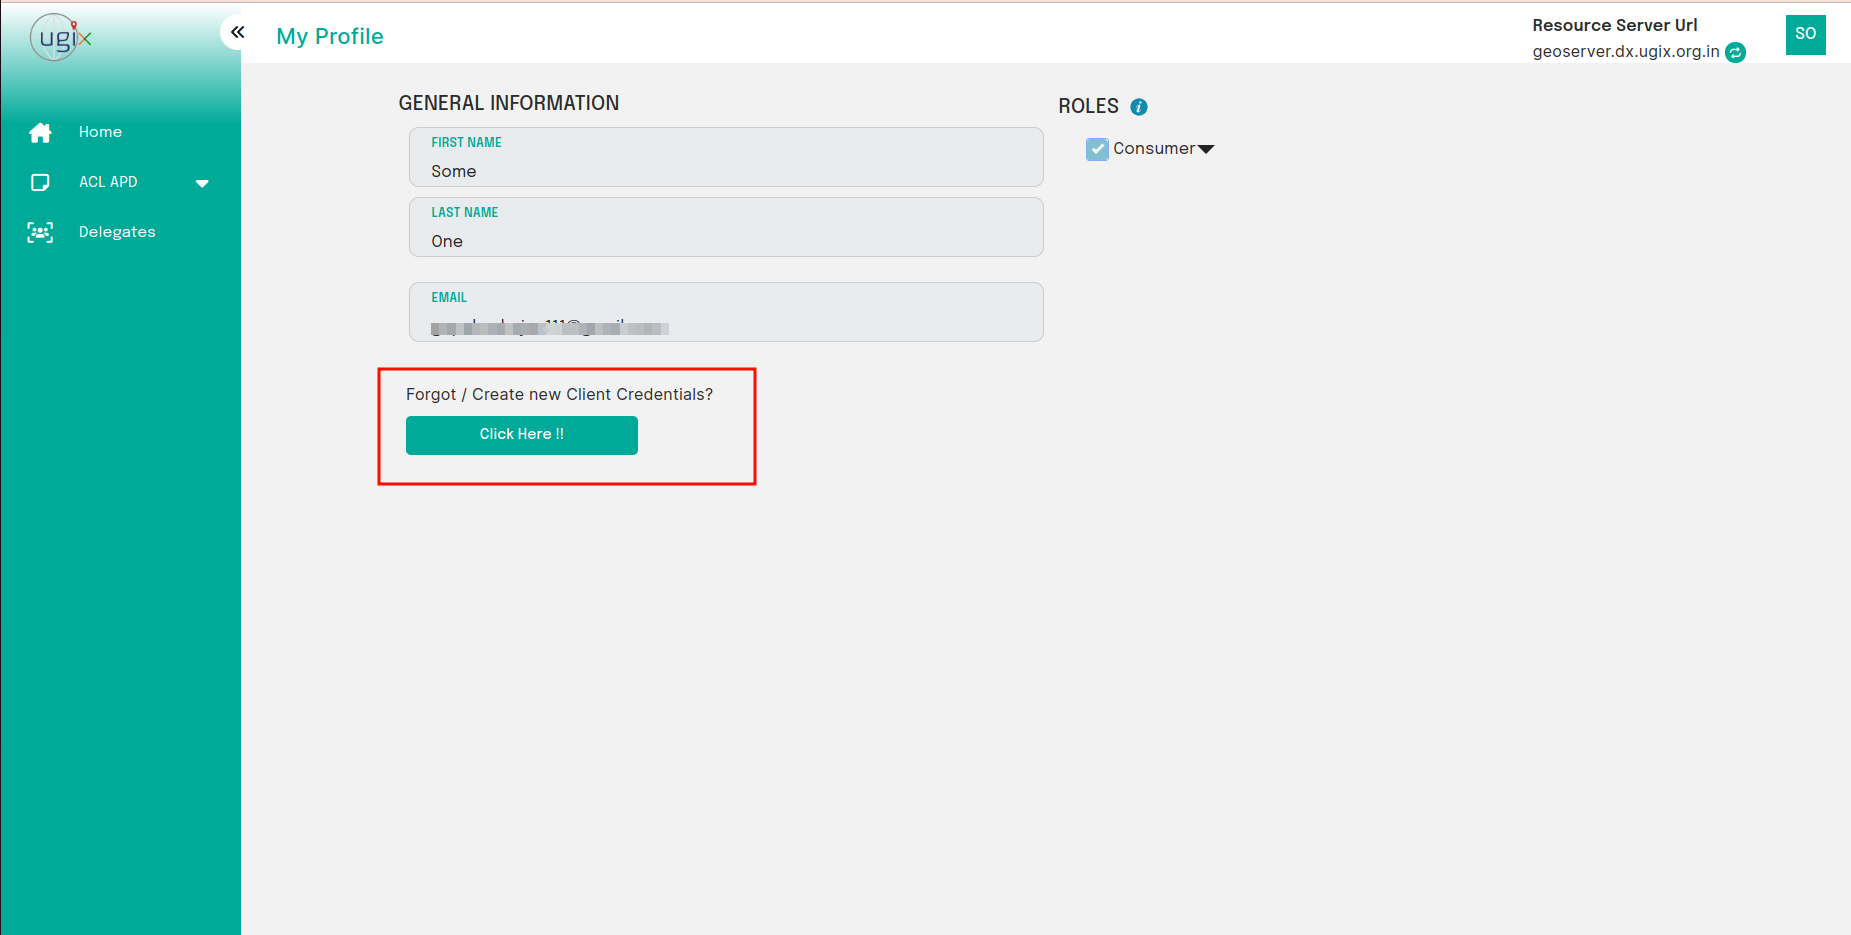
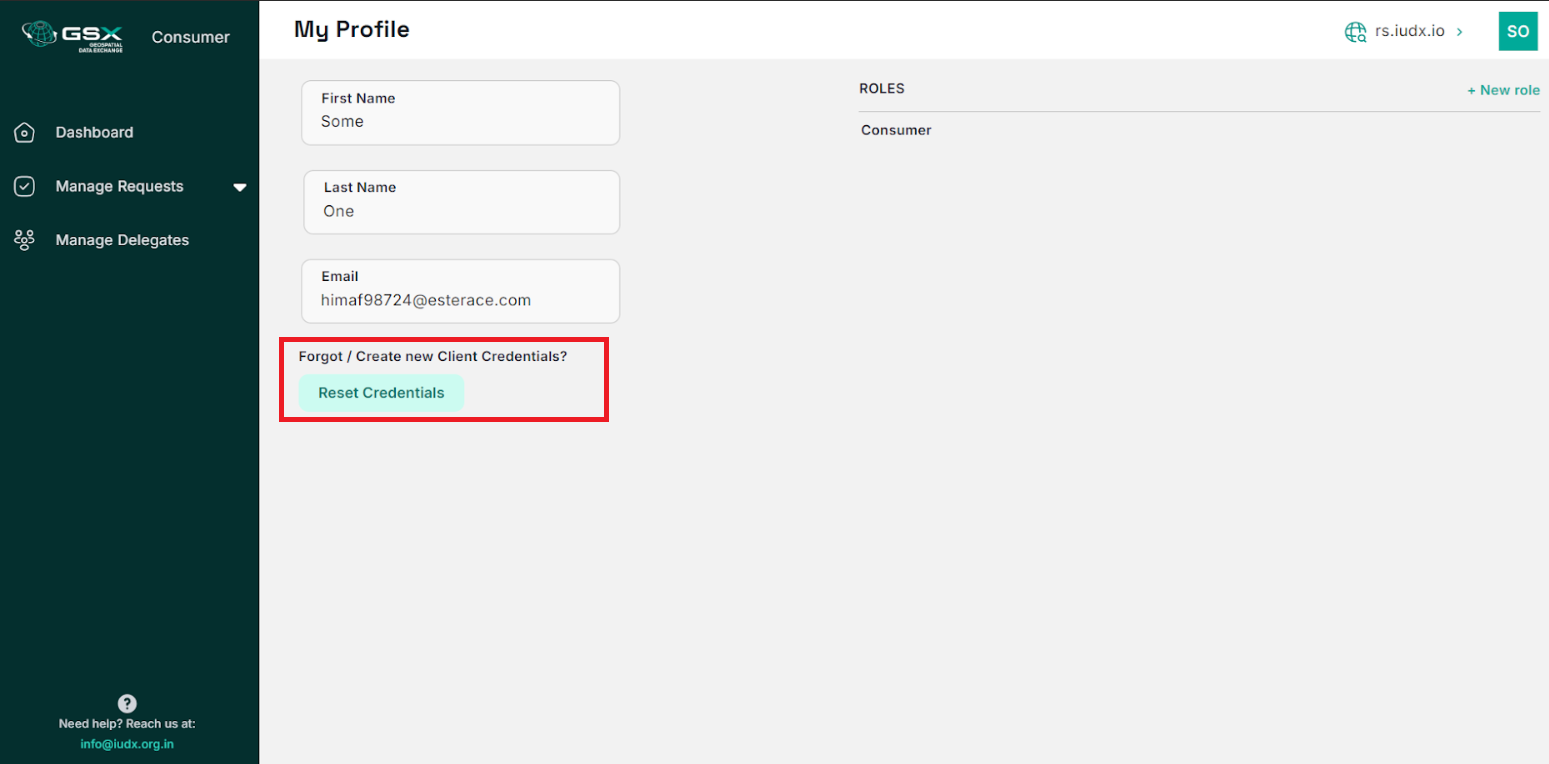
FIX: Changes realted to gsx

Changed region(s): [[0.0, 0.0, 1.0, 1.0], [0.5578, 0.0903, 0.6507, 0.1806]]

diff --git a/docusaurus.config.js b/docusaurus.config.js
@@ -13,7 +13,7 @@ const config = {
 	baseUrl: '/',
 	onBrokenLinks: 'throw',
 	onBrokenMarkdownLinks: 'warn',
-	favicon: 'img/ugix-logo.png',
+	favicon: 'https://iudx-catalogue-assets.s3.ap-south-1.amazonaws.com/ugix/icon.ico',
 	organizationName: 'GSX', // Usually your GitHub org/user name.
 	projectName: 'GSX', // Usually your repo name.
 
@@ -49,7 +49,7 @@ const config = {
 				title: '',
 				logo: {
 					alt: 'My Site Logo',
-					src: 'img/ugix-logo.png'
+					src: 'https://iudx-catalogue-assets.s3.ap-south-1.amazonaws.com/ugix/gsix-logo.png'
 				},
 				items: [
 					{
@@ -143,7 +143,7 @@ const config = {
 							<img src="img/website.svg" alt="" class='foot-web-icon' />
 						</div>
 						<div class="col-10">
-							<span>www.gsx.org.in</span>
+							<a href=''>www.gsx.org.in</a>
 						</div>
 					</div>
 					<div class="row mt-lg-4 foot-column-1">

diff --git a/src/css/custom.css b/src/css/custom.css
@@ -28,6 +28,10 @@
   flex-wrap: nowrap;
 }
 
+img{
+  max-width: 75%;
+}
+
 h4{
   font-size: 15px;
 }

diff --git a/docs/registration.md b/docs/registration.md
@@ -13,11 +13,11 @@ All users of the GSX platform must be registered and authenticated to perform an
 
 ## 1. Account Creation
 
-As the first step when a user accesses the [panel](https://catalogue.gsx.org.in/auth), they need to register as a new user. Registering is highlighted in the picture.
-![Register](../resources/auth/reg.png)<br/>
+As the first step when a user accesses the [panel](https://catalogue.gsx.org.in/auth), they need to register as a new user. <br/>  Registering is highlighted in the picture.
+![Register](../resources/auth/register.png)<br/>
 *Click on Register*
 
-![Account details](../resources/auth/first-step-reg.png)<br/>
+![Account details](../resources/auth/step1.png)<br/>
 *Enter Account details*
 
 ## 2. Email Verification
@@ -26,7 +26,7 @@ The user will receive an email with a verification link at their registered emai
 
 ***Note: The verification link will expire in 5 minutes.***
 
-![Sample email dialog](../resources/auth/sample-email.png)<br/>
+![Sample email dialog](../resources/auth/email-template.png)<br/>
 *Sample email dialog*
 
 Once your email address has been verified, you will be directed to an interface that looks like this:

diff --git a/docs/client-credentials.md b/docs/client-credentials.md
@@ -18,7 +18,7 @@ Once a user has registered as a consumer or has been approved as a provider, the
 ![Entering into the My Profile panel](../resources/auth/go-to-my-profile.png)<br/>
 *Entering into the My Profile panel*
 
-3. In the "My Profile" panel, the user can either download their default client credentials or reset them if they have been lost or compromised.
+3. In the "My Profile" panel, the user can either download their default client credentials or reset them <br/>  if they have been lost or compromised.
 ![Getting new client credentials](../resources/auth/client-creds.png)<br/>
 *Getting new client credentials*
 

diff --git a/README.md b/README.md
@@ -1,4 +1,4 @@
-# IUDX Developer docs
+# UGIX Developer docs
 
 This website is built using [Docusaurus 2](https://docusaurus.io/), a modern static website generator.
 
